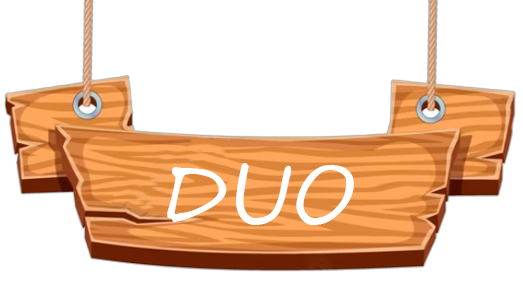
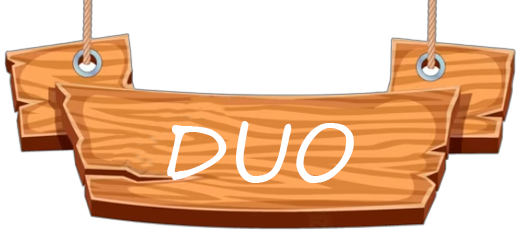
Drag and drop

diff --git a/WarOfFae/WarOfFae/PreGame.xaml b/WarOfFae/WarOfFae/PreGame.xaml
@@ -28,14 +28,6 @@
             </Border>
         </DataTemplate>
 
-        <DataTemplate x:Key="MapaView_DefaultItemTemplate" x:DataType="local:ViewMapaPersonajes">
-
-            <Border  Height="56" Width="51.5" Margin="0.5,2,0,0" DragOver="MiCanvas_DragOver" Drop="MiCanvas_Drop" AllowDrop="True">
-                <Border.Background>
-                    <ImageBrush ImageSource="{x:Bind Imagen}" Stretch="UniformToFill"></ImageBrush>
-                </Border.Background>
-            </Border>
-        </DataTemplate>
     </Page.Resources>
     <Viewbox Stretch="Fill">
         <Grid >
@@ -72,15 +64,31 @@
                             <Canvas.Background>
                                 <ImageBrush ImageSource="Assets/mapa.png"></ImageBrush>
                             </Canvas.Background>
-                            <GridView  Margin="0,272" Height="185" Width="560" Name="GridViewMapa" ItemsSource= "{x:Bind ListaPersonajesMapa}"  ItemTemplate="{StaticResource MapaView_DefaultItemTemplate}" ScrollViewer.VerticalScrollBarVisibility="Disabled"  ScrollViewer.HorizontalScrollBarVisibility="Disabled" IsItemClickEnabled="True"></GridView>
+                            <GridView ItemsSource="1234567890ABCDEFGHIJK123456789" TabIndex="6" Margin="0,272" Height="185" Width="560" Name="GridViewMapa" ScrollViewer.VerticalScrollBarVisibility="Disabled"  ScrollViewer.HorizontalScrollBarVisibility="Disabled" IsItemClickEnabled="True">
+                                <GridView.ItemTemplate>
+                                    <DataTemplate>
+                                        <Border  Height="56" Width="51.5" Margin="0.5,2,0,0" DragOver="MiCanvas_DragOver" Drop="MiCanvas_Drop" AllowDrop="True">
+                                            <Border.Background>
+                                                <ImageBrush ImageSource="Assets/StoreLogo.png" Stretch="UniformToFill"></ImageBrush>
+                                            </Border.Background>
+                                        </Border>
+                                    </DataTemplate>
+                                </GridView.ItemTemplate>
+                                <GridView.ItemsPanel>
+                                    <ItemsPanelTemplate>
+                                        <ItemsWrapGrid MaximumRowsOrColumns="10" Orientation="Horizontal"/>
+                                    </ItemsPanelTemplate>
+                                </GridView.ItemsPanel>
+                            </GridView>
+                           
                         </Canvas>
                     </Border>
                     <Border Height="60" Width="650" BorderBrush="White" BorderThickness="3" HorizontalAlignment="Center" Margin="10,10">
-                        <GridView Name="GridViewPersonajes" ItemsSource= "{x:Bind ListaPersonajes}"  ItemTemplate="{StaticResource PersonajeView_DefaultItemTemplate}" ScrollViewer.VerticalScrollBarVisibility="Disabled"  ScrollViewer.HorizontalScrollBarVisibility="Disabled" Background="White" IsItemClickEnabled="True" ItemClick="GridViewPersonajes_ItemClick" CanDragItems="True" DragItemsStarting="GridViewPersonajes_DragItemsStarting"></GridView>
+                        <GridView Name="GridViewPersonajes" TabIndex="5" ItemsSource= "{x:Bind ListaPersonajes}"  ItemTemplate="{StaticResource PersonajeView_DefaultItemTemplate}" ScrollViewer.VerticalScrollBarVisibility="Disabled"  ScrollViewer.HorizontalScrollBarVisibility="Disabled" Background="White" IsItemClickEnabled="True" ItemClick="GridViewPersonajes_ItemClick" CanDragItems="True" DragItemsStarting="GridViewPersonajes_DragItemsStarting"></GridView>
                     </Border>
 
                     <TextBlock HorizontalAlignment="Center" FontFamily="Curlz MT" Foreground="#FFFAF7F7" FontSize="22" Text="0      6       4      2       2       3       2       2      1       1       5       1" Margin="-15"></TextBlock>
-                    <Button HorizontalAlignment="Center" Width="135" Height="62" Margin="20" Click="StartButton_Click">
+                    <Button HorizontalAlignment="Center" Width="135" Height="62" Margin="20" Click="StartButton_Click" TabIndex="7">
                         <Image  Source="Assets/Start.png" Height="69" Margin="-31,-10,-34,-10" />
                     </Button>
                 </StackPanel>
@@ -90,7 +98,7 @@
             </Viewbox>
 
             <Viewbox Grid.Column="0" HorizontalAlignment="Left" VerticalAlignment="Top" Grid.Row="0" MaxHeight="80" MaxWidth="80" >
-                <Button x:Name="Ajustes_Boton"  Grid.Column="0" HorizontalAlignment="Left" VerticalAlignment="Top" Grid.Row="0" Height="80" Width="80" Click="AjustesButton_Click">
+                <Button x:Name="Ajustes_Boton" TabIndex="8" Grid.Column="0" HorizontalAlignment="Left" VerticalAlignment="Top" Grid.Row="0" Height="80" Width="80" Click="AjustesButton_Click">
                     <Button.Background>
                         <SolidColorBrush Opacity="0"/>
                     </Button.Background>
@@ -99,7 +107,7 @@
             </Viewbox>
 
 
-            <Button x:Name="Back_Boton"  Click="Back_Boton_Click" Grid.Column="0" HorizontalAlignment="Left" VerticalAlignment="Bottom" Grid.Row="0" Height="60" Width="130">
+            <Button x:Name="Back_Boton" TabIndex="9" Click="Back_Boton_Click" Grid.Column="0" HorizontalAlignment="Left" VerticalAlignment="Bottom" Grid.Row="0" Height="60" Width="130">
                 <Button.Background>
                     <SolidColorBrush Opacity="0"/>
                 </Button.Background>
@@ -108,22 +116,27 @@
 
 
             <Viewbox HorizontalAlignment="Right" VerticalAlignment="Top" Margin="0, 80,5,0" >
-                <Border HorizontalAlignment="Right" VerticalAlignment="Top" Height="200">
+                <Border HorizontalAlignment="Right" VerticalAlignment="Top" Height="200" >
                     <Border.Background>
                         <ImageBrush ImageSource="Assets/Panel.png" Stretch="UniformToFill"></ImageBrush>
                     </Border.Background>
-                    <StackPanel Orientation="Vertical">
-                        <StackPanel HorizontalAlignment="Right" VerticalAlignment="Top" Orientation="Horizontal">
-                            <Button Name="Fire" Content="Fire" Background="CadetBlue" BorderBrush="White" BorderThickness="2" Click="FuegoButton_Click"></Button>
-                            <Button Name="Water" Content="Water" Background="Teal" BorderBrush="White" BorderThickness="2" Click="AguaButton_Click"></Button>
-                            <Button Name="Earth" Content="Earth"  Background="CadetBlue" BorderBrush="White" BorderThickness="2" Click="TierraButton_Click"></Button>
-                            <Button Name="Air" Content="Air" Background="CadetBlue" BorderBrush="White" BorderThickness="2" Click="AireButton_Click"></Button>
-                        </StackPanel>
+                   
+                       
+                        <StackPanel Orientation="Vertical">
+                            <ContentControl TabIndex="0">
+                                <StackPanel HorizontalAlignment="Right" VerticalAlignment="Top" Orientation="Horizontal" XYFocusKeyboardNavigation="Enabled" TabFocusNavigation="Once" >
+                                    <Button Name="Fire" Content="Fire" Background="CadetBlue" BorderBrush="White" BorderThickness="2" Click="FuegoButton_Click" ></Button>
+                                    <Button Name="Water" Content="Water" Background="Teal" BorderBrush="White" BorderThickness="2" Click="AguaButton_Click"></Button>
+                                    <Button Name="Earth" Content="Earth"  Background="CadetBlue" BorderBrush="White" BorderThickness="2" Click="TierraButton_Click"></Button>
+                                    <Button Name="Air" Content="Air" Background="CadetBlue" BorderBrush="White" BorderThickness="2" Click="AireButton_Click"></Button>
+                                </StackPanel>
+                            </ContentControl>
 
-                        <TextBlock Text="ELEMENT" FontFamily="Curlz MT" Foreground="#FFFDFAFA" FontSize="16" FontWeight="Bold" VerticalAlignment="Center" HorizontalAlignment="Center"  Margin="0,10"></TextBlock>
-                        <TextBlock Name="Elemento" Text="WATER" FontFamily="Curlz MT" Foreground="LightBlue" FontSize="36" FontWeight="Bold" VerticalAlignment="Center" HorizontalAlignment="Center"></TextBlock>
-                        <Button  Name="PowerElement" Content="TSUNAMI" Background="LightBlue" BorderBrush="DarkBlue" BorderThickness="1" HorizontalAlignment="Center" Width="170" CornerRadius="7" FontFamily="Curlz MT" Foreground="DarkBlue" FontSize="20" FontWeight="Bold"  Margin="0,5" Click="PowerElement_Click"></Button>
-                    </StackPanel>
+                            <TextBlock Text="ELEMENT" FontFamily="Curlz MT" Foreground="#FFFDFAFA" FontSize="16" FontWeight="Bold" VerticalAlignment="Center" HorizontalAlignment="Center"  Margin="0,10"></TextBlock>
+                            <TextBlock Name="Elemento" Text="WATER" FontFamily="Curlz MT" Foreground="LightBlue" FontSize="36" FontWeight="Bold" VerticalAlignment="Center" HorizontalAlignment="Center"></TextBlock>
+                            <Button  Name="PowerElement" TabIndex="1" Content="TSUNAMI" Background="LightBlue" BorderBrush="DarkBlue" BorderThickness="1" HorizontalAlignment="Center" Width="170" CornerRadius="7" FontFamily="Curlz MT" Foreground="DarkBlue" FontSize="20" FontWeight="Bold"  Margin="0,5" Click="PowerElement_Click"></Button>
+                        </StackPanel>
+                   
 
                 </Border>
             </Viewbox>
@@ -137,9 +150,9 @@
                     </Border.Background>
                     <StackPanel Orientation="Vertical">
                         <TextBlock Text="POWER UPS" FontFamily="Curlz MT" Foreground="#FFFDFAFA" FontSize="30" FontWeight="Bold" VerticalAlignment="Center" HorizontalAlignment="Center"  Margin="20,15"></TextBlock>
-                        <Button Name="PowerUp1"  Content="Empty" Background="MediumPurple" BorderBrush="DarkBlue" BorderThickness="1" HorizontalAlignment="Center" Width="195" CornerRadius="7" FontFamily="Curlz MT" Foreground="White" FontSize="25" FontWeight="Bold"  Margin="0,5" Click="PowerUp_Click"></Button>
-                        <Button Name="PowerUp2"  Content="Empty" Background="MediumPurple" BorderBrush="DarkBlue" BorderThickness="1" HorizontalAlignment="Center" Width="195" CornerRadius="7" FontFamily="Curlz MT" Foreground="White" FontSize="25" FontWeight="Bold"  Margin="0,5" Click="PowerUp_Click"></Button>
-                        <FlipView x:Name="ImageFlipView" Width="100" Height="100" Background="Thistle"  BorderBrush="MediumPurple" BorderThickness="3" ItemsSource= "{x:Bind ListaPowerUps}"  ItemTemplate="{StaticResource ImageGridView_DefaultItemTemplate}">
+                        <Button Name="PowerUp1" TabIndex="2" Content="Empty" Background="MediumPurple" BorderBrush="DarkBlue" BorderThickness="1" HorizontalAlignment="Center" Width="195" CornerRadius="7" FontFamily="Curlz MT" Foreground="White" FontSize="25" FontWeight="Bold"  Margin="0,5" Click="PowerUp_Click"></Button>
+                        <Button Name="PowerUp2" TabIndex="3" Content="Empty" Background="MediumPurple" BorderBrush="DarkBlue" BorderThickness="1" HorizontalAlignment="Center" Width="195" CornerRadius="7" FontFamily="Curlz MT" Foreground="White" FontSize="25" FontWeight="Bold"  Margin="0,5" Click="PowerUp_Click"></Button>
+                        <FlipView x:Name="ImageFlipView" TabIndex="4" Width="100" Height="100" Background="Thistle"  BorderBrush="MediumPurple" BorderThickness="3" ItemsSource= "{x:Bind ListaPowerUps}"  ItemTemplate="{StaticResource ImageGridView_DefaultItemTemplate}">
                         </FlipView>
                         <Border Height="25"></Border>
 

diff --git a/WarOfFae/WarOfFae/MainPage.xaml b/WarOfFae/WarOfFae/MainPage.xaml
@@ -9,7 +9,7 @@
     Background="{ThemeResource ApplicationPageBackgroundThemeBrush}">
 
     <Viewbox Stretch="Fill">
-        <Grid Name="myGird"  RequestedTheme="Dark" >
+        <Grid Name="myGird"  RequestedTheme="Dark">
 
             <Grid.Background>
                 <ImageBrush ImageSource="Assets/Fondo.png"></ImageBrush>
@@ -18,30 +18,32 @@
                 <ColumnDefinition Width="713*" />
                 <ColumnDefinition Width="262*" />
                 <ColumnDefinition Width="715*" />
-                <ColumnDefinition Width="230*" />
+                <ColumnDefinition Width="220*" />
             </Grid.ColumnDefinitions>
             <Grid.RowDefinitions>
                 <RowDefinition Height="133*" />
                 <RowDefinition Height="47*" />
             </Grid.RowDefinitions>
 
-            <StackPanel x:Name = "Botones" Grid.Column ="2" Margin="2,0,0,0">
+            <StackPanel x:Name = "Botones" Grid.Column ="2" Margin="2,0,0,0" IsTapEnabled="True">
                 <Rectangle HorizontalAlignment="Center" Height="165"></Rectangle>
-                <Button x:Name="Boton1" HorizontalAlignment="Center" Height="160" Width="351" Background="{x:Null}" BackgroundSizing="OuterBorderEdge" Click="Solo_Button">
+
+                <Button x:Name="Boton1" HorizontalAlignment="Center" Height="160" Width="351" Background="{x:Null}" BackgroundSizing="OuterBorderEdge" Click="Solo_Button" >
                     <Image Source="/Assets/CartelSolo.png" HorizontalAlignment="Center" Margin="0,-18,0,0" Width="331" Height="176" VerticalAlignment="Top"/>
                 </Button>
+
                 <Button x:Name="Boton2" HorizontalAlignment="Center" Height="135" Width="325" Background="{x:Null}" BackgroundSizing="OuterBorderEdge" Click="Duo_Button">
-                    <Image Source="/Assets/CartelDuo.png" VerticalAlignment="Top" HorizontalAlignment="Left" Margin="1,-35,0,0" Height="288" Width="303"></Image>
+                    <Image Source="/Assets/CartelDuo.png" VerticalAlignment="Top" HorizontalAlignment="Left" Margin="1,-15,0,0" Height="288" Width="303"></Image>
                 </Button>
 
             </StackPanel>
 
             <Image  Source="/Assets/CartelPrincipal.png" Grid.Column="2" HorizontalAlignment="Center" VerticalAlignment="Top" Height="370" Width="492"/>
 
-            <Button  x:Name="Inventario_Boton" VerticalAlignment="Bottom" Height="188" Width="171" Grid.Row="1" HorizontalAlignment="Right" Grid.Column="0" Margin="0,0,29,0" BorderBrush="{x:Null}" Background="{x:Null}" Click="Inventario_Boton_Click" FocusVisualPrimaryBrush="{x:Null}" FocusVisualSecondaryBrush="{x:Null}" Foreground="{x:Null}" >
+            <Button  x:Name="Inventario_Boton" VerticalAlignment="Bottom" Height="188" Width="171" Grid.Row="1" HorizontalAlignment="Right" Grid.Column="0" Margin="0,0,29,0" Click="Inventario_Boton_Click" TabIndex="1" IsTabStop="True" Foreground="Transparent" Background="Transparent">
                 <Image Source="/Assets/CartelInventario.png" Stretch="UniformToFill" HorizontalAlignment="Center"/>
             </Button>
-            <Button x:Name="Ajustes_Boton" Grid.Column="0" HorizontalAlignment="Left" VerticalAlignment="Top" Grid.Row="0" Height="80" Width="80" Click="Ajustes_Boton_Click">
+            <Button x:Name="Ajustes_Boton" Grid.Column="0" HorizontalAlignment="Left" VerticalAlignment="Top" Grid.Row="0" Height="80" Width="80" Click="Ajustes_Boton_Click" TabIndex="2" IsTabStop="True">
                 <Button.Background>
                     <SolidColorBrush Opacity="0"/>
                 </Button.Background>

diff --git a/WarOfFae/WarOfFae/Options.xaml b/WarOfFae/WarOfFae/Options.xaml
@@ -58,7 +58,10 @@
                             <StackPanel Orientation="Vertical">
                                 <TextBlock Text="SOUND" Foreground="White" FontSize="60" HorizontalAlignment="Center" Margin="20 20 20 40"/>
                                 <TextBlock Text="Music" Foreground="Black" FontSize="30" HorizontalAlignment="Center"/>
-                                <Slider Margin="50 0 50 50" Value="50" Foreground="Violet"/>
+                                <StackPanel Orientation="Horizontal" Margin="60 0 50 50" HorizontalAlignment="Center">
+                                    <Slider Value="50" Foreground="Violet" Width="396" VerticalAlignment="Center" ValueChanged="Slider_ValueChanged"/>
+                                    <TextBlock Name="volume" Text="{x:Bind Music,Mode=TwoWay}" Margin="20,0,0,0"  Width="80" Height="50" VerticalAlignment="Top" HorizontalAlignment="Left" Foreground="#FFF9F8F8" FontSize="40" TextAlignment="Left"></TextBlock>
+                                </StackPanel>
                                 <TextBlock Text="Effects Volume" Foreground="Black" FontSize="30" HorizontalAlignment="Center"/>
                                 <Slider Margin="50 0" Value="50" Foreground="Violet"/>
                                 <CheckBox Foreground="White" Content="Mute all" FontSize="30" HorizontalAlignment="Left" Margin="50 30 10 0"/>

diff --git a/WarOfFae/WarOfFae/PreGame.xaml.cs b/WarOfFae/WarOfFae/PreGame.xaml.cs
@@ -1,6 +1,7 @@
 using System;
 using System.Collections.Generic;
 using System.Collections.ObjectModel;
+using System.ComponentModel;
 using System.Drawing;
 using System.IO;
 using System.Linq;
@@ -25,11 +26,14 @@ namespace WarOfFae
     /// <summary>
     /// Una página vacía que se puede usar de forma independiente o a la que se puede navegar dentro de un objeto Frame.
     /// </summary>
-    public sealed partial class PreGame : Page
+    public sealed partial class PreGame : Page, INotifyPropertyChanged
     {
         public ObservableCollection<ViewPowerUp> ListaPowerUps { get; } = new ObservableCollection<ViewPowerUp>();
         public ObservableCollection<ViewPersonajes> ListaPersonajes { get; } = new ObservableCollection<ViewPersonajes>();
         public ObservableCollection<ViewMapaPersonajes> ListaPersonajesMapa { get; } = new ObservableCollection<ViewMapaPersonajes>();
+        public event PropertyChangedEventHandler PropertyChanged;
+       
+
 
         ViewPersonajes p; 
         bool pressedPowerUp1 = false;
@@ -290,12 +294,8 @@ namespace WarOfFae
             var id = await e.DataView.GetTextAsync();
             ViewPersonajes O = ListaPersonajes.ElementAt(Int32.Parse(id)) as ViewPersonajes;
             Windows.UI.Xaml.Controls.Border o = e.OriginalSource as Windows.UI.Xaml.Controls.Border;
-            ViewMapaPersonajes u = o.DataContext as ViewMapaPersonajes;
-            u.Imagen = O.Imagen;
-            u.Img.Source= O.Img.Source;
-            //u.Id = O.Id;
-
-
+            ImageBrush u = o.Background as ImageBrush;
+            u.ImageSource = O.Img.Source;
         }
     }
 }

diff --git a/WarOfFae/WarOfFae/Options.xaml.cs b/WarOfFae/WarOfFae/Options.xaml.cs
@@ -1,5 +1,6 @@
 using System;
 using System.Collections.Generic;
+using System.ComponentModel;
 using System.IO;
 using System.Linq;
 using System.Runtime.InteropServices.WindowsRuntime;
@@ -20,8 +21,10 @@ namespace WarOfFae
     /// <summary>
     /// Una página vacía que se puede usar de forma independiente o a la que se puede navegar dentro de un objeto Frame.
     /// </summary>
-    public sealed partial class Options : Page
+    public sealed partial class Options : Page, INotifyPropertyChanged
     {
+        string Music = "50";
+        public event PropertyChangedEventHandler PropertyChanged;
         public Options()
         {
             this.InitializeComponent();
@@ -33,6 +36,15 @@ namespace WarOfFae
             {
                 Frame.GoBack();
             }
+        }
+
+        private void Slider_ValueChanged(object sender, RangeBaseValueChangedEventArgs e)
+        {
+            string msg = string.Format("{0}", e.NewValue);
+            Music = msg;
+            PropertyChanged?.Invoke(this, new PropertyChangedEventArgs(nameof(Music)));
+            //Slider o = sender as Slider;
+            //Music.Text = o.Value.ToString();
         }
     }
 }

diff --git a/WarOfFae/WarOfFae/ViewPersonajes.cs b/WarOfFae/WarOfFae/ViewPersonajes.cs
@@ -25,4 +25,25 @@ namespace WarOfFae
 
         }
     }
+
+    public class CVDron : ContentControl
+    {
+        public string Nombre;
+        public Image Img;
+        public CompositeTransform Transformacion;   //Nuevo: Traslación+Rotación
+        public CVDron(ViewPersonajes dron, double X, double Y)
+        {
+            Nombre = dron.Nombre;
+            Img = new Image();
+            Img.Source = dron.Img.Source;
+            Img.Width = 50;
+            Img.Height = 50;
+            this.Content = Img;
+            Transformacion = new CompositeTransform();
+            Transformacion.TranslateX = X;
+            Transformacion.TranslateY = Y;
+            this.RenderTransform = Transformacion;
+        }
+    }
+
 }
